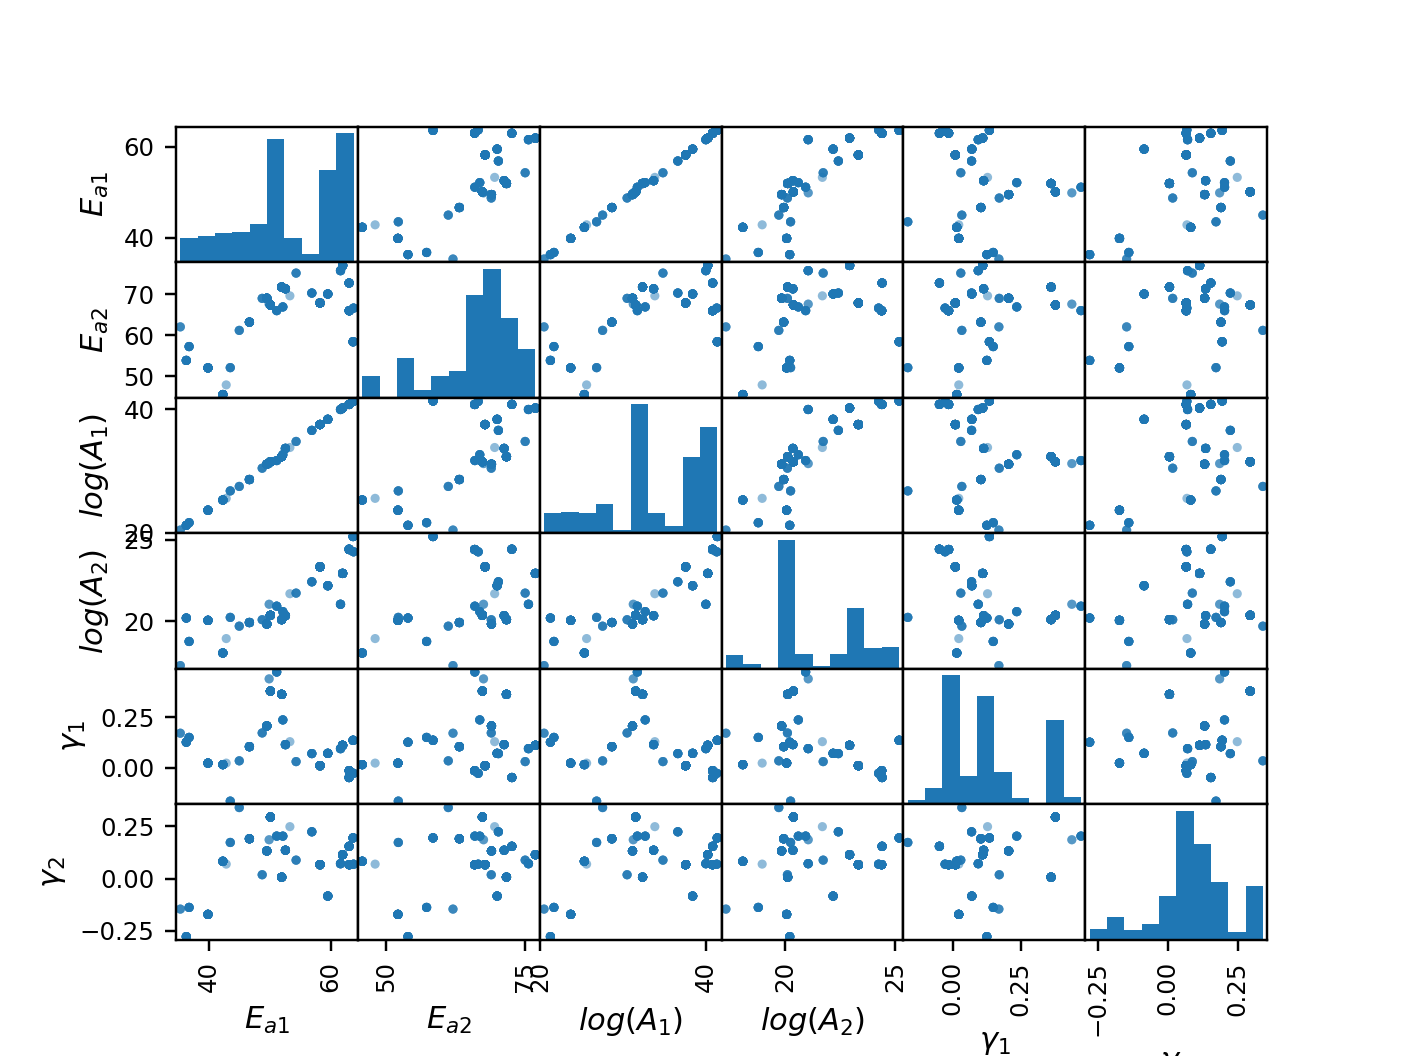
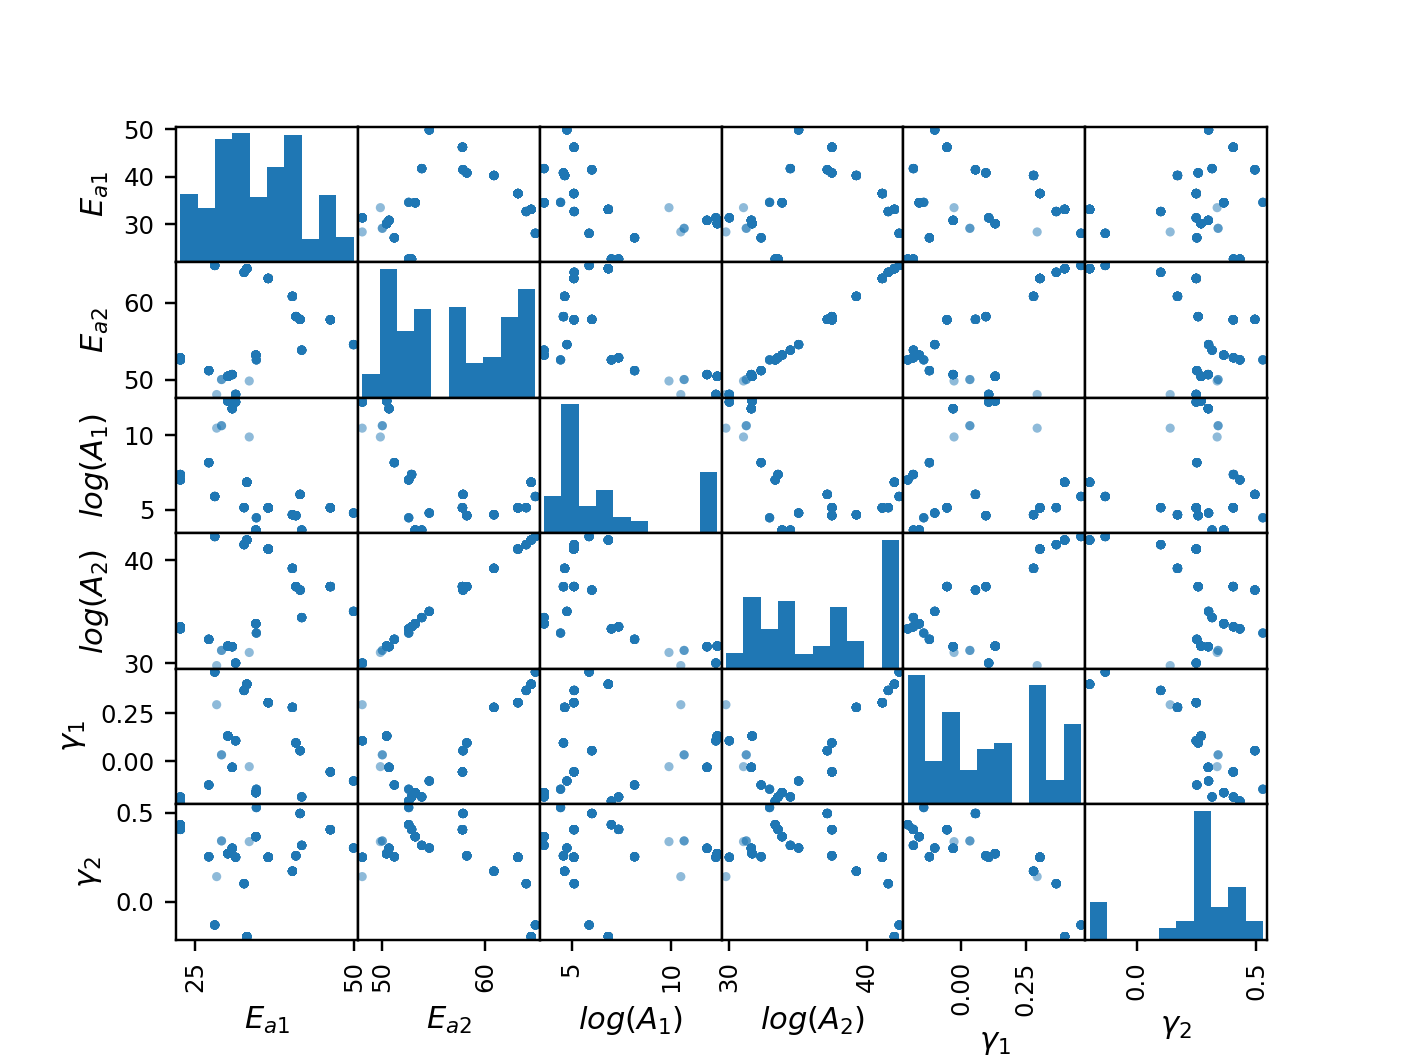
scatterplot in plotting class and MH with pytest
The seaborn scatterplot code is transferred to the plotting class.  'test_pytest.py' has the seaborn scatterplot code which, which also required running the Metropolis-Hastings algorithm and therefore it is tested too.

diff --git a/test_pytest.py b/test_pytest.py
@@ -3,7 +3,18 @@
 import plotting_functions
 from plotting_functions import plotting_functions
 import UserInput_ODE_KIN_BAYES_SG_EW as UserInput
+import run_me
+from run_me import parseUserInputParameters
+from run_me import ip
+
 def test_mumpce_plots():
     plot_object = plotting_functions()
     assert plot_object.mumpce_plots(model_parameter_info = UserInput.model_parameter_info, active_parameters = UserInput.active_parameters, pairs_of_parameter_indices = UserInput.pairs_of_parameter_indices, posterior_mu_vector = UserInput.posterior_mu_vector, posterior_cov_matrix = UserInput.posterior_cov_matrix, prior_mu_vector = UserInput.prior_mu_vector, prior_cov_matrix = UserInput.prior_cov_matrix, contour_settings_custom = UserInput.contour_settings_custom) == None
     assert exec(open("mumpce_custom_plotting_example.py").read()) == None
+
+def MH_then_scatterplot():
+    parseUserInputParameters()
+    ip_object = ip()
+    [evidence, info_gain, samples, rate_tot_array, logP] = ip_object.MetropolisHastings()
+    plotting_object = plotting_functions(samples=samples)
+    assert plotting_object.seaborn_scatterplot_matrix() == None

diff --git a/plotting_functions.py b/plotting_functions.py
@@ -51,6 +51,12 @@ class plotting_functions():
 
 
     def seaborn_scatterplot_matrix(self):
+        posterior_df = pd.DataFrame(self.samples,columns=[UserInput.parameterNamesAndMathTypeExpressionsDict[x] for x in UserInput.parameterNamesList])
+        pd.plotting.scatter_matrix(posterior_df)
+        plt.savefig('scatter_matrix_posterior.png',dpi=220)
+        return
+
+    def rate_tot_plot(self):
         #fig0, ax0 = plt.subplots()
         #if UserInput.verbose:
         #    print(np.mean(rate_tot_array,axis = 0))
@@ -62,10 +68,4 @@ class plotting_functions():
         #ax0.legend(['model posterior', 'experiments'])
         #fig0.tight_layout()
         #fig0.savefig('tprposterior.png', dpi=220)
-        #posterior_df = pd.DataFrame(samples,columns=[UserInput.parameterNamesAndMathTypeExpressionsDict[x] for x in UserInput.parameterNamesList])
-        #pd.plotting.scatter_matrix(posterior_df)
-        #plt.savefig('scatter_matrix_posterior.png',dpi=220)
-        return
-
-    def rate_tot_plot(self):
         return
